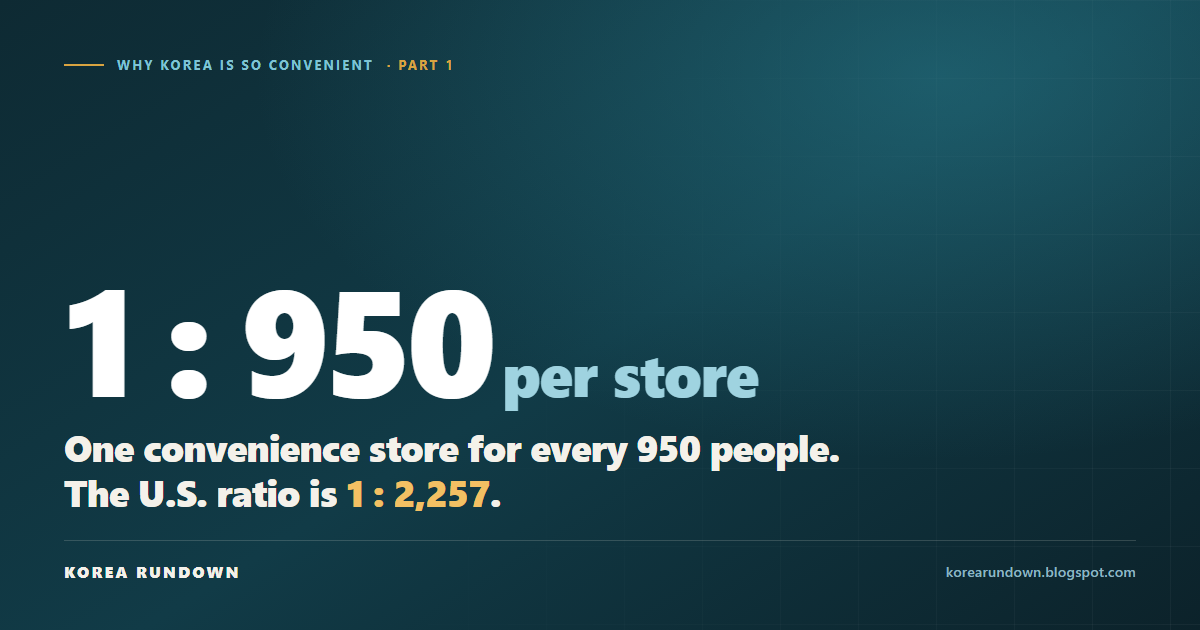
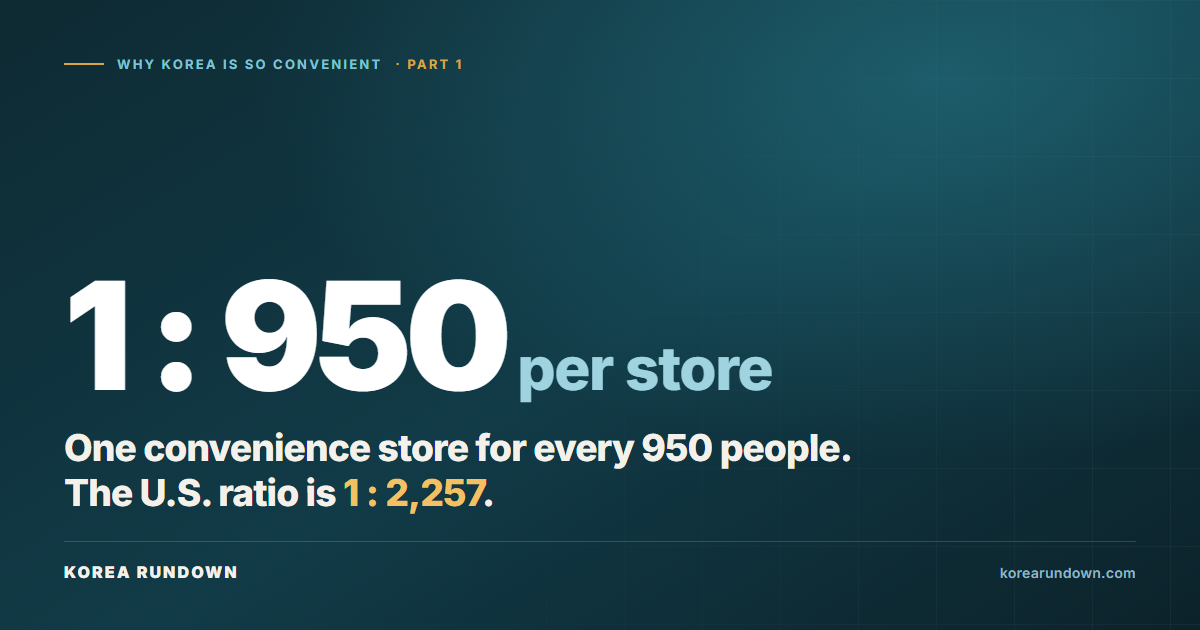
Use custom domain in thumbnail footer; re-render parts 1-4
The earlier "custom domain in footer" commit was empty - _template.html and
the us profile still emitted korearundown.blogspot.com, so parts 1-4 carried
the old address while parts 5-8 did not.

diff --git a/_template.html b/_template.html
@@ -94,6 +94,6 @@
 
   <div class="foot">
     <div class="brand" id="brand">KOREA RUNDOWN</div>
-    <div class="sub" id="sub">korearundown.blogspot.com</div>
+    <div class="sub" id="sub">korearundown.com</div>
   </div>
 </div>
